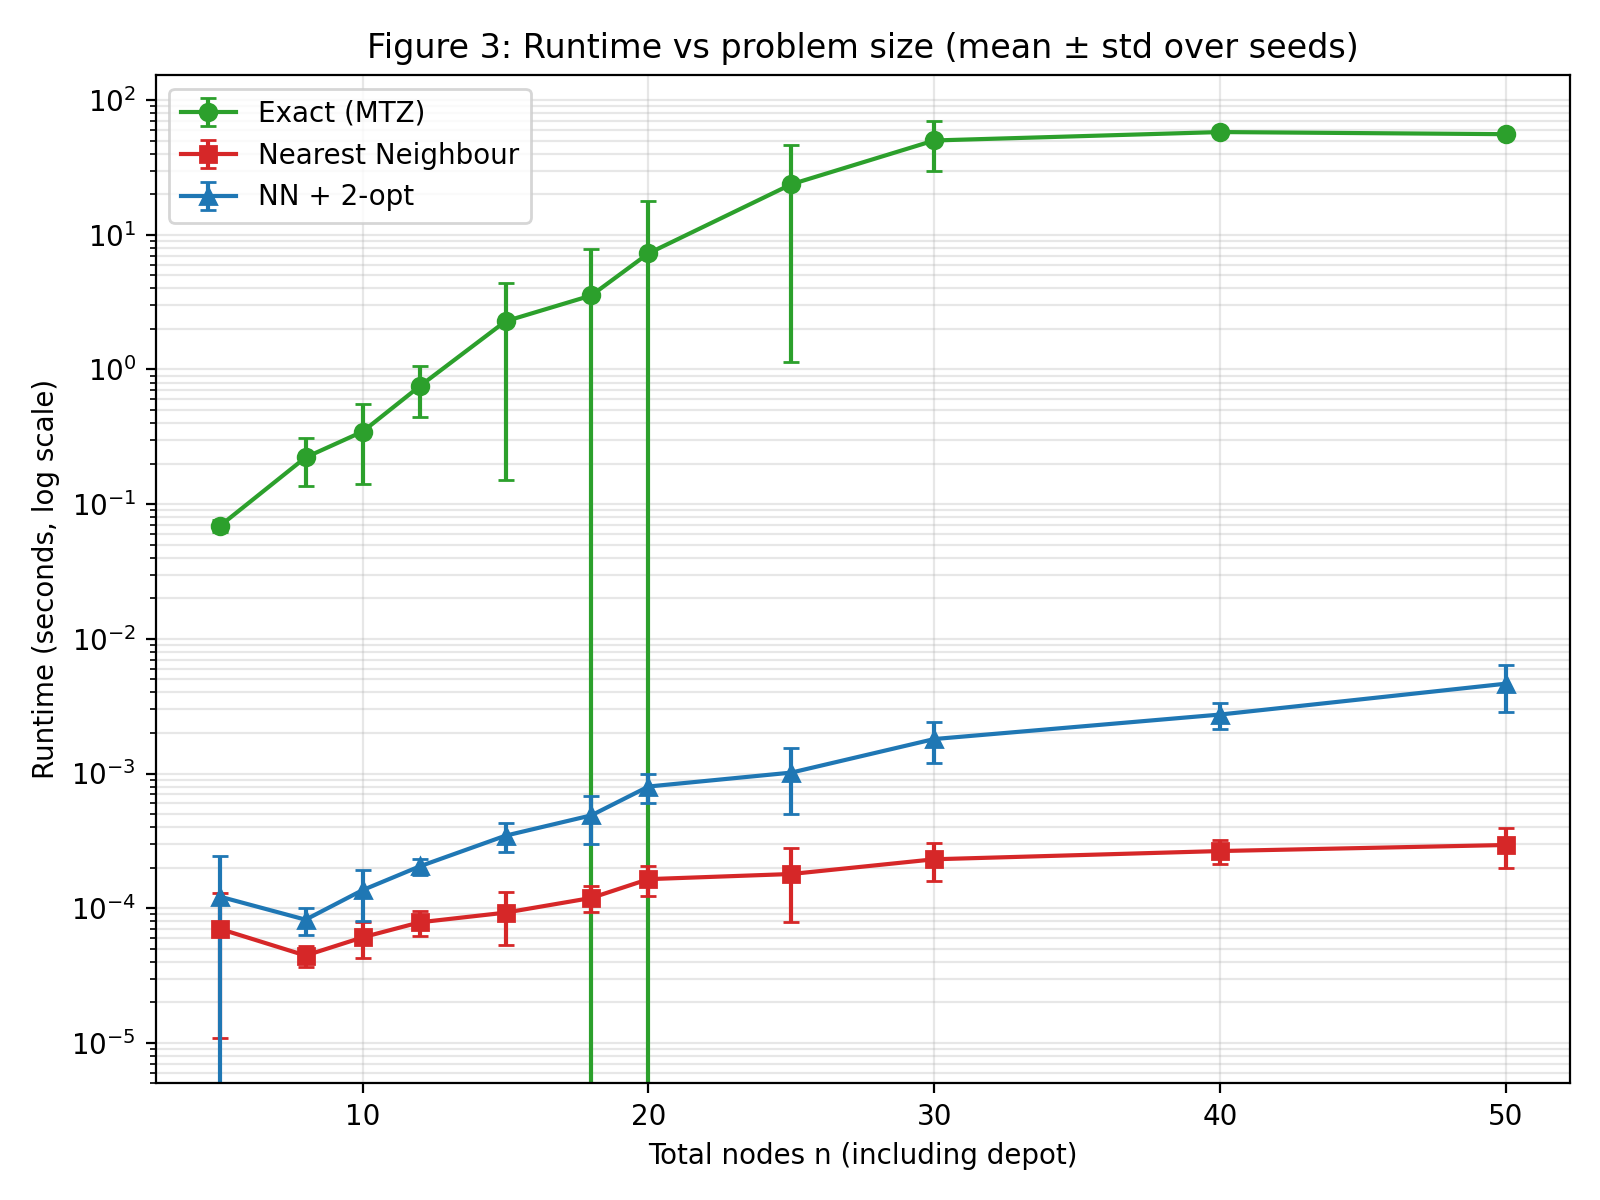
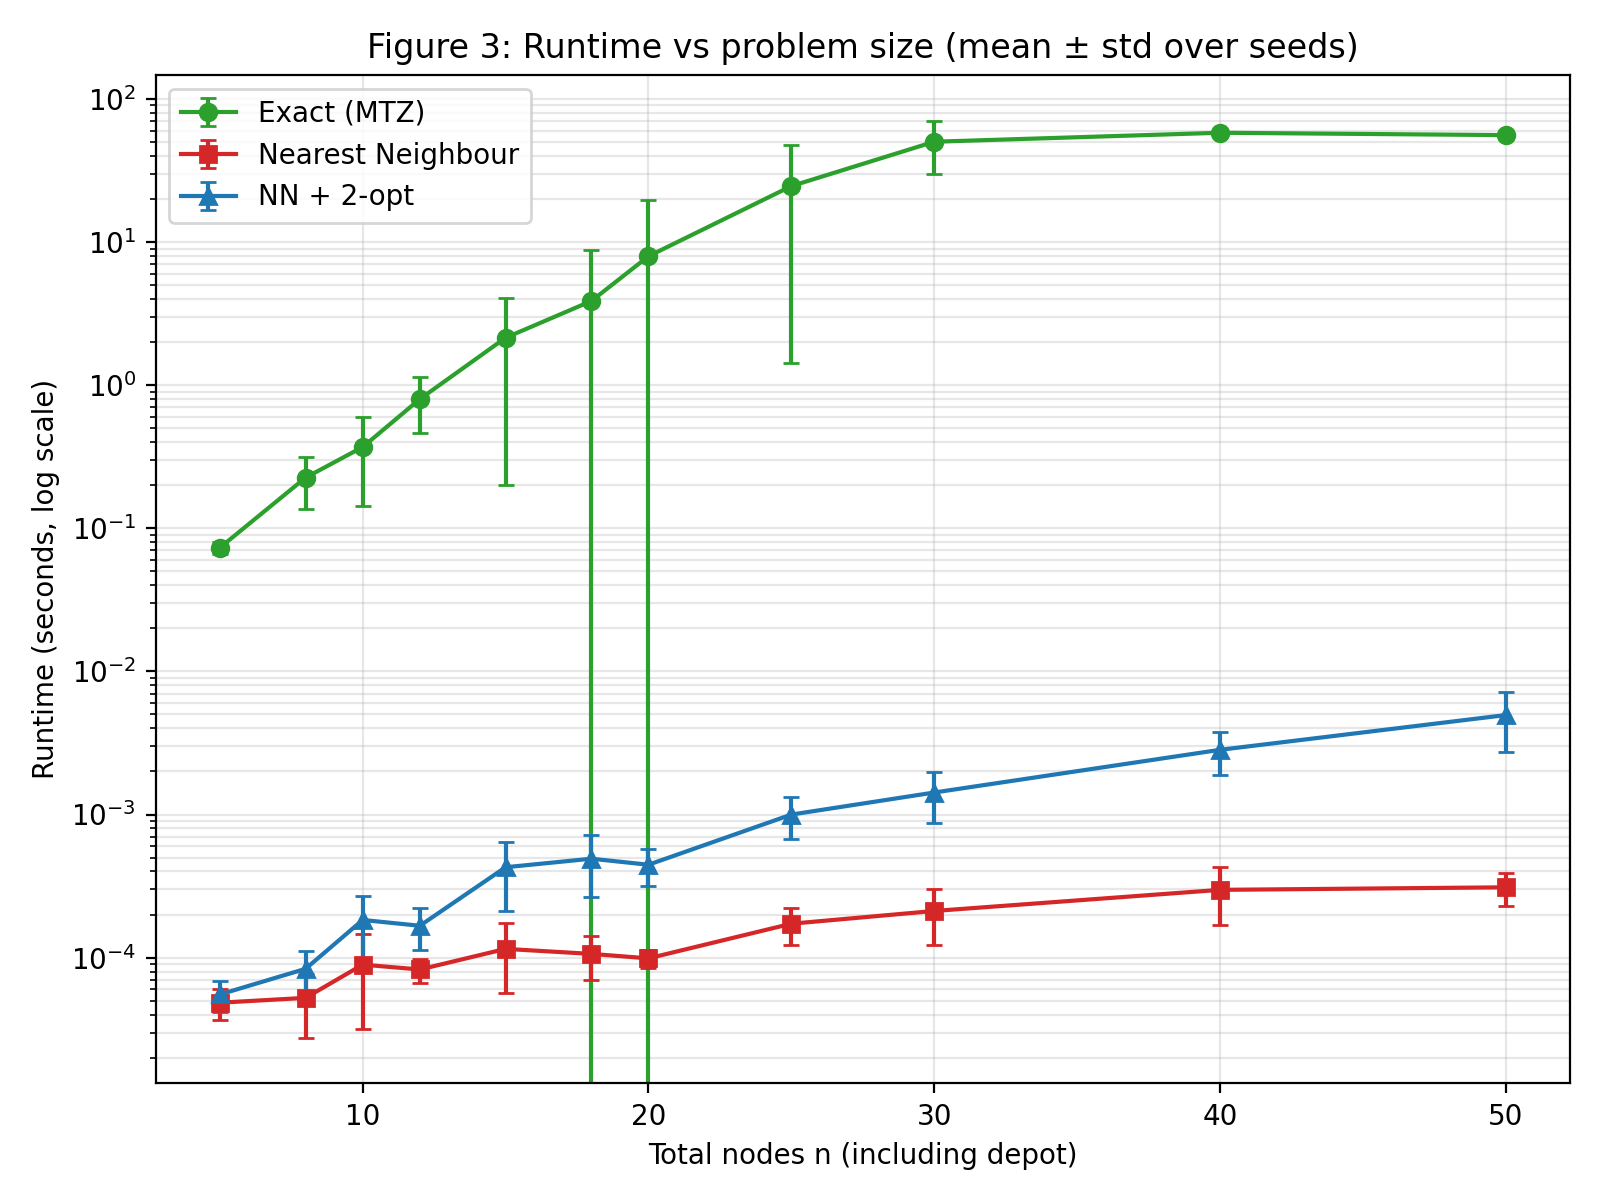
Regenerate final Experiment B outputs

diff --git a/depot_experiments.py b/depot_experiments.py
@@ -55,20 +55,25 @@ def run_optimizer_experiments(
                 objective, start, args=(points, eps), jac=gradient, method="BFGS",
                 options={"gtol": GRAD_TOL, "maxiter": MAX_OPT_ITER},
             )
-            if not reference.success:
-                raise RuntimeError(
-                    f"SciPy BFGS reference failed for dataset={dataset!r}, "
-                    f"seed={seed!r}, epsilon={eps}: {reference.message}"
-                )
+            scipy_success = bool(reference.success)
+            scipy_status = int(reference.status)
+            scipy_message = str(reference.message)
             for method_name, method in METHODS.items():
                 result = method(points, start=start, eps=eps, tol=GRAD_TOL, max_iter=MAX_OPT_ITER)
+                scipy_distance = (
+                    float(np.linalg.norm(result["depot_xy"] - reference.x))
+                    if scipy_success else float("nan")
+                )
                 summary_rows.append({
                     "method": method_name, "dataset": dataset, "seed": seed,
                     "epsilon": eps, "iterations": result["iterations"],
                     "runtime_sec": result["runtime_sec"], "objective": result["objective"],
                     "depot_x": result["depot_xy"][0], "depot_y": result["depot_xy"][1],
                     "grad_norm": result["grad_norm"],
-                    "scipy_distance": float(np.linalg.norm(result["depot_xy"] - reference.x)),
+                    "scipy_distance": scipy_distance,
+                    "scipy_success": scipy_success,
+                    "scipy_status": scipy_status,
+                    "scipy_message": scipy_message,
                     "converged": result["converged"],
                 })
                 for record in result["history"]:
